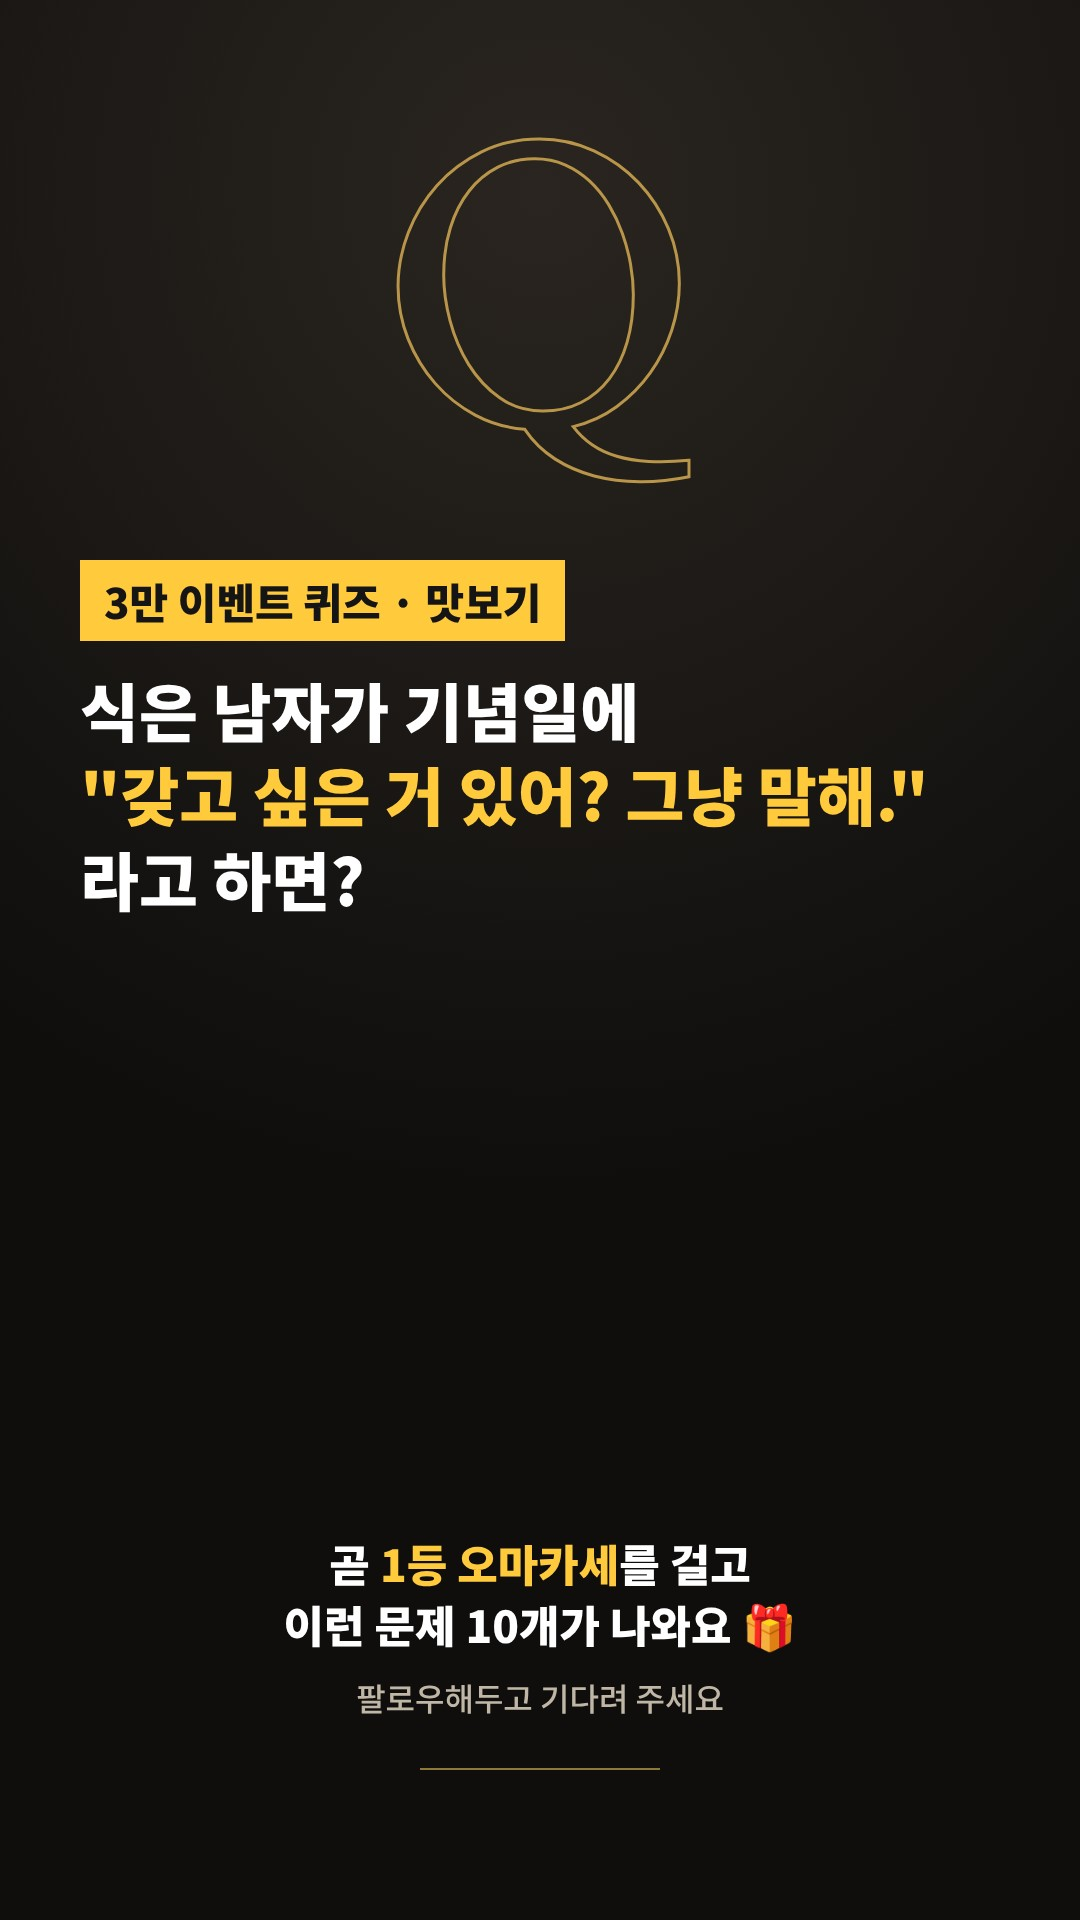
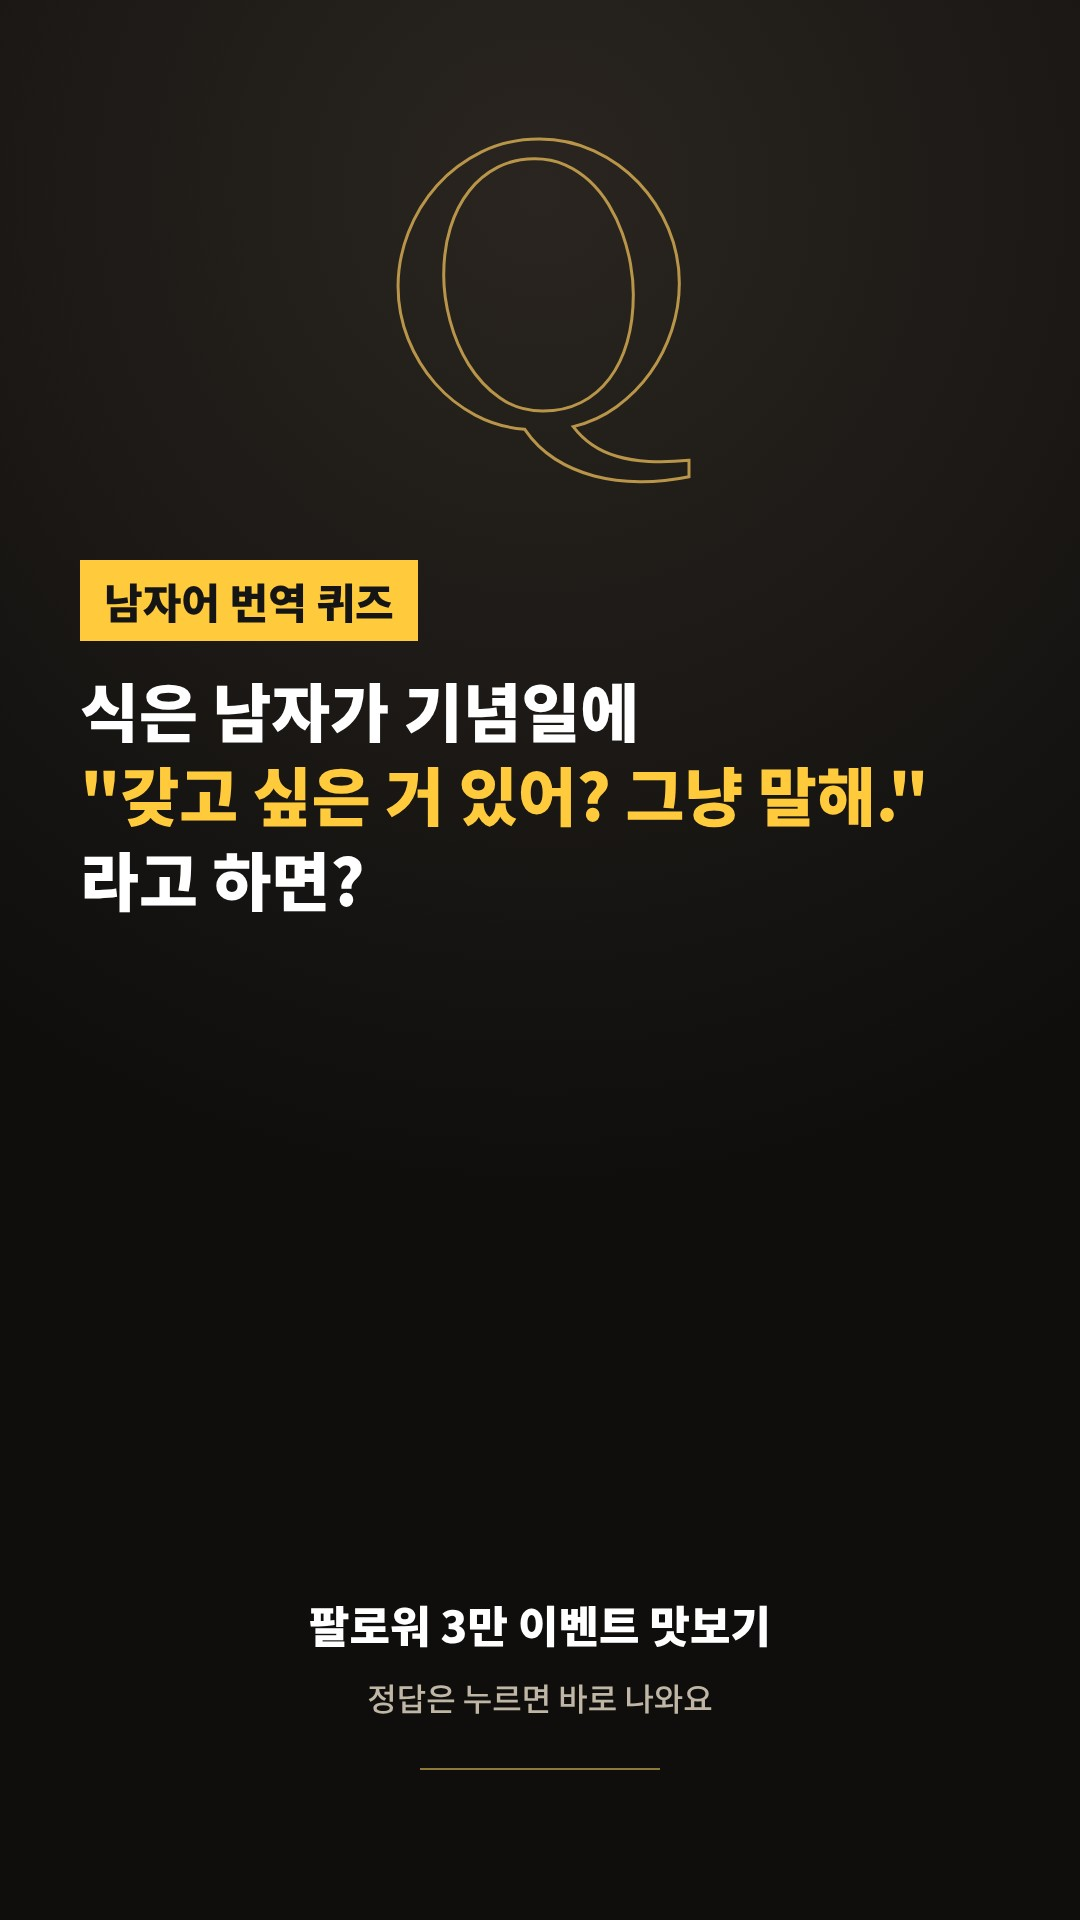
스토리 퀴즈 3: 오마카세 문구 빼고 '3만 이벤트 맛보기'만
Claude-Session: https://claude.ai/code/session_01J9i5yL8MFhQ5W67Sx3nDW6

Changed region(s): [[0.275, 0.7812, 0.7333, 0.9062], [0.0917, 0.2812, 0.5194, 0.3438]]

diff --git a/carousel/story/quiz3.html b/carousel/story/quiz3.html
@@ -13,8 +13,8 @@ section{width:1080px;height:1920px;position:relative;background:radial-gradient(
 .line{position:absolute;left:50%;bottom:150px;width:240px;margin-left:-120px;height:2px;background:#c9a24e;opacity:.7}
 </style></head><body><section id="a">
 <div class="big">Q</div>
-<div class="top"><span class="tag">3만 이벤트 퀴즈 · 맛보기</span>
+<div class="top"><span class="tag">남자어 번역 퀴즈</span>
 <div class="t">식은 남자가 기념일에<br><em>"갖고 싶은 거 있어? 그냥 말해."</em><br>라고 하면?</div></div>
-<div class="bot"><b>곧 <span>1등 오마카세</span>를 걸고<br>이런 문제 10개가 나와요 🎁</b><small>팔로우해두고 기다려 주세요</small></div>
+<div class="bot"><b>팔로워 3만 이벤트 맛보기</b><small>정답은 누르면 바로 나와요</small></div>
 <div class="line"></div>
 </section></body></html>
